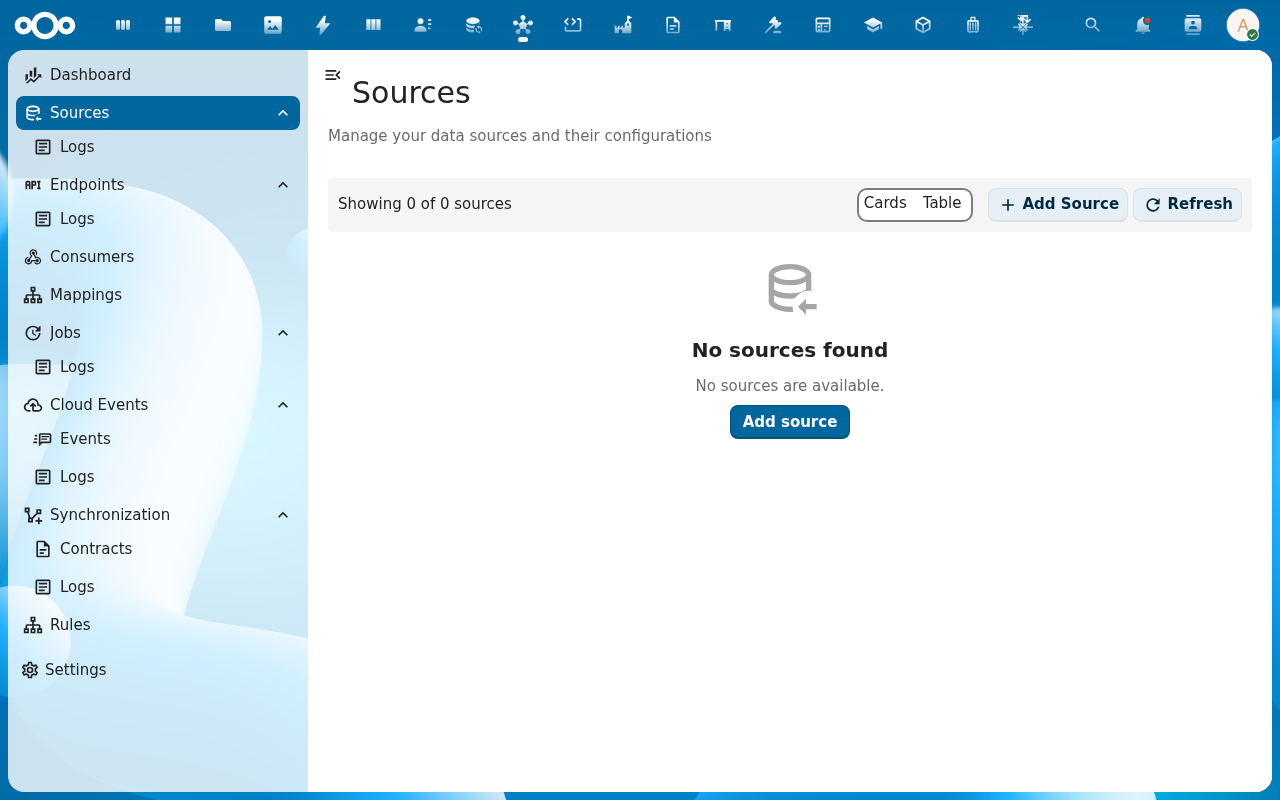
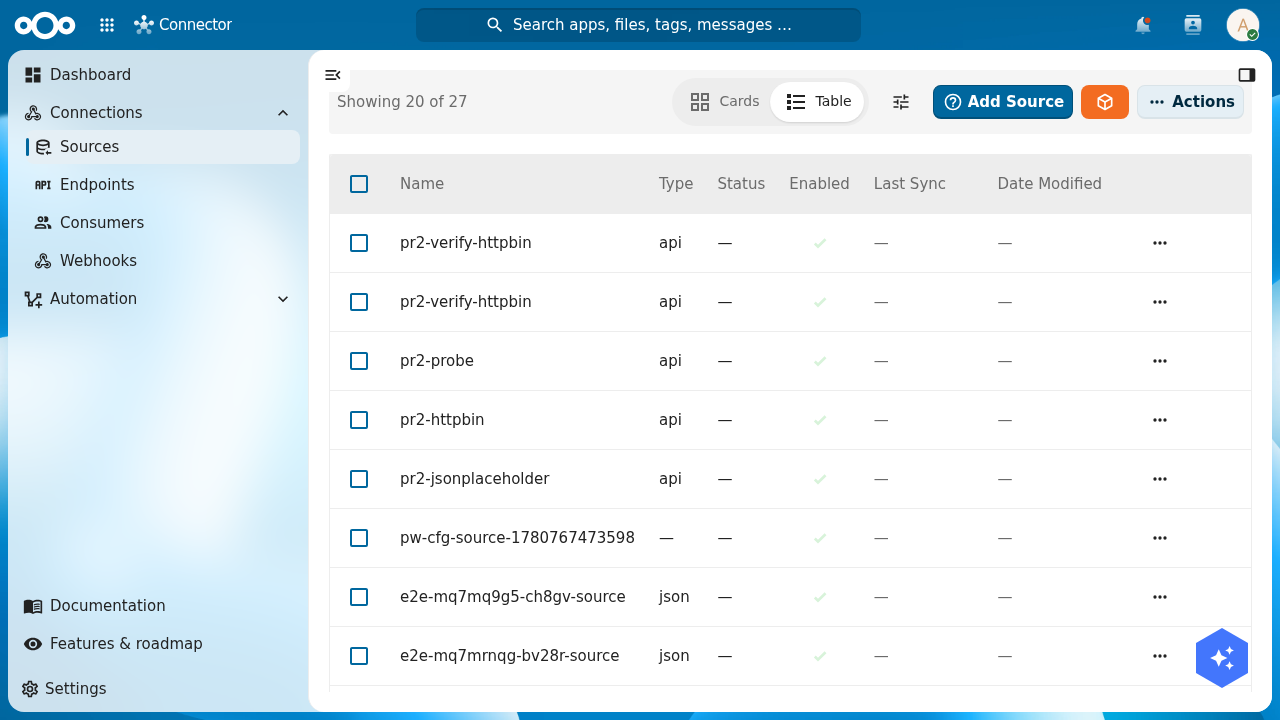
docs(sources): document app-side credential injection + refresh add-source walkthrough
Adds documentation for the app-side injection path shipped in openconnector#168 /
openregister#404 (credentialRef placeholders for arbitrary / self-hosted hosts):

- features/sources.md: new 'App-side injection' subsection under Authentication —
  the generic-* inject-only providers, the nested {credentialRef} placeholder shape,
  a proxy-vs-inject comparison table, hard rules, and an operator recipe.
- tutorials/user/02-add-source.md: the 'setup a test connection' walkthrough now wires
  auth to a vault credential (never an embedded secret) and calls out the plaintext
  API-key/JWT fields in the generated Create Source dialog as 'leave empty'.
- Replaced the placeholder Sources-list and Create-Source screenshots with real
  captures from the running instance.

Note: the source-detail / test-call / logs screenshots (03-05) still carry their
placeholders — the shared dev instance is stuck in a needsDbUpgrade/503 loop today, so
they need recapture in a stable environment.

diff --git a/docs/tutorials/user/02-add-source.md b/docs/tutorials/user/02-add-source.md
@@ -1,7 +1,7 @@
 ---
 sidebar_position: 2
 title: Add a source
-description: Register an external system (REST, SOAP, FTP) as a Source so OpenConnector can call it.
+description: Register an external system (REST, SOAP, FTP) as a Source, wire its authentication to a vault credential, and confirm the connection with a test call.
 ---
 
 # Add a source
@@ -10,29 +10,62 @@ A **Source** is a configured connection to an external system. Every API call Op
 
 ## Goal
 
-By the end you will have created a Source pointing at an external REST API and confirmed the connection by running a test call.
+By the end you will have created a Source pointing at an external REST API, wired its authentication to a **credential held in the vault** (so no secret is stored in the Source), and confirmed the connection by running a test call.
 
 ## Prerequisites
 
 - You have completed [Open OpenConnector for the first time](./01-first-launch.md).
 - You know the base URL of the external system and one valid endpoint to test against.
-- You have the credentials for whichever authentication method the external system uses (API key, OAuth client, basic auth, …).
+- You have a **vault credential** for the external system, or the rights to create one. The recommended pattern is to **never store the secret in the Source** — keep it in OpenRegister's credential broker and reference it. See [Sources → Authentication](../../features/sources.md#authentication-methods) for the full picture. In short:
+  - For a **catalogued SaaS** (Mollie, KVK, GitHub, …), create a brokered credential for that provider and reference it at the top level — the call is proxied and the secret never enters OpenConnector.
+  - For an **arbitrary or self-hosted host**, create a credential with a `generic-*` (inject-only) provider — the secret is resolved from the vault and injected app-side.
+
+  In both cases: note the credential's **UUID** and add `openconnector` to its **allowedApps**.
 
 ## Steps
 
-1. From the navigation, click **Sources** and then **Add Source**.
+1. From the navigation, open **Connections → Sources**, then click **Add Source**.
 
    ![Sources list with Add Source button](/screenshots/tutorials/user/02-add-source-01.png)
 
-2. Fill in the basics in the *Add Source* dialog: a clear **Name** (it appears in dropdowns when you build mappings and syncs), the **Location** (base URL), and the **Type** (`json` for most REST APIs, `xml` / `soap` / `ftp` for the other source kinds).
+2. Fill in the basics in the *Create Source* dialog: a clear **Name** (it appears in dropdowns when you build mappings and syncs) and the **Type** (`api` for most REST APIs, `xml` / `soap` / `ftp` for the other source kinds). You set the **Location** (base URL) on the detail page after saving.
 
-   ![Add Source dialog](/screenshots/tutorials/user/02-add-source-02.png)
+   The dialog also exposes plaintext **API Key**, **Password**, **Client Secret** and **JWT Token** fields (marked *"plaintext per ADR-007"*). **Leave these empty** for a secure setup — you will reference the vault credential in the next step instead of embedding a secret here.
 
-3. Save. The Source appears in the list. Click its row to open the detail view, then move to the **Configuration** tab to add headers, authentication and connection defaults.
+   ![Create Source dialog](/screenshots/tutorials/user/02-add-source-02.png)
 
-   ![Source detail view](/screenshots/tutorials/user/02-add-source-03.png)
+3. Save. The Source appears in the list. Open its detail view and go to the **Configuration** tab to set the **Location** (base URL) and the authentication. Point `authentication` at your credential instead of an embedded secret.
 
-4. Open the **Test** action on the source's detail page. Enter a known-good path (e.g. `/health` or any read-only `GET`) and run the call. The right-hand panel shows the response code, headers and body — confirming the source is reachable.
+   For an **arbitrary / self-hosted host**, place the credential reference at the secret's own position and let a header template read it back:
+
+   ```json
+   {
+     "location": "https://api.example.org",
+     "configuration": {
+       "authentication": {
+         "type": "apikey",
+         "apikey": { "credentialRef": { "credentialId": "<your-credential-uuid>" } }
+       },
+       "headers": {
+         "Authorization": "Bearer {{ source.configuration.authentication.apikey }}"
+       }
+     }
+   }
+   ```
+
+   For a **catalogued SaaS**, reference the credential at the top level of `authentication` instead — the whole call is proxied through the broker:
+
+   ```json
+   {
+     "configuration": {
+       "authentication": { "credentialRef": { "credentialId": "<your-credential-uuid>" } }
+     }
+   }
+   ```
+
+   ![Source detail view with credentialRef configuration](/screenshots/tutorials/user/02-add-source-03.png)
+
+4. Open the **Test** action on the source's detail page. Enter a known-good path (e.g. `/health` or any read-only `GET`) and run the call. The right-hand panel shows the response code, headers and body — confirming the source is reachable **and** that the vault credential was resolved and injected (a 2xx upstream status). The secret itself never appears in the Source, the logs, or the response metadata.
 
    ![Source test call](/screenshots/tutorials/user/02-add-source-04.png)
 
@@ -42,17 +75,19 @@ By the end you will have created a Source pointing at an external REST API and c
 
 ## Verification
 
-You are done when: the source appears in the **Sources** list, a test call against a known-good endpoint returns a 2xx response, and that call shows up in the **Source Logs** with the same status code.
+You are done when: the source appears in the **Sources** list, its `authentication` holds only a `credentialRef` (no embedded secret), a test call against a known-good endpoint returns a 2xx response, and that call shows up in the **Source Logs** with the same status code.
 
 ## Common issues
 
 | Symptom | Fix |
 |---|---|
-| Test call returns `401 Unauthorized` | Authentication header or OAuth token is wrong — check **Configuration → Authentication** on the source. |
+| Test call returns `401 Unauthorized` | The credential resolved but the target rejected it — check the credential's secret value, and that the header template / scheme matches what the external system expects. |
+| Test call returns a `409` config-error log | The `credentialRef` could not be resolved — the credential doesn't exist, `openconnector` is not in its **allowedApps**, or (for app-side injection) it does not use a `generic-*` inject-only provider. See [App-side injection](../../features/sources.md#app-side-injection). |
+| Test call returns a `403` log | The broker refused the credential — confirm the acting user owns it and `openconnector` is in its **allowedApps**. |
 | Test call hangs and times out | The Nextcloud instance can't reach the source's host — check firewall / VPN / DNS from the server, not from your laptop. |
 | Test call returns `200` but the response body is empty | The source returned no payload for that path — try a different endpoint or check if the source wraps responses in an envelope you need to unwrap with `resultsPosition`. |
 
 ## Reference
 
 - [Sources feature](../../features/sources.md) — full reference: types, auth methods, headers, query defaults.
-- [Authentication patterns](../../features/sources.md#authentication-methods) — API key, OAuth 2.0, basic auth.
+- [Brokered credentials & app-side injection](../../features/sources.md#authentication-methods) — reference a vault credential instead of embedding a secret; when to proxy vs inject.

diff --git a/docs/features/sources.md b/docs/features/sources.md
@@ -72,6 +72,64 @@ The **un-migrated-secret** case is subtle: OpenRegister's lazy vault→Doriath s
 
 **Secret hygiene & trust boundary:** the secret value never appears in source configuration, sync logs, CallLogs, or error messages — with brokering it never enters the OpenConnector process at all. The OpenRegister broker is the trust boundary: it resolves and injects the secret server-side and returns only `{status, headers, body}`. Its **refusal reason is logged inside OpenRegister and never crosses the boundary** — the exception OpenConnector catches is a single opaque "Request not permitted", which is why the 403 guidance covers the likely fixes for its context rather than naming the exact guard. OpenConnector's own owner-pin refusals are logged with the **guard name + owner uid + credential id only** — never any secret material.
 
+### App-side injection (`credentialRef` placeholder) — for arbitrary / self-hosted hosts {#app-side-injection}
+
+The brokered proxy above is **host-locked**: it only works for a provider in OpenRegister's immutable catalogue (Mollie, KVK, GitHub, …), whose `baseUrl` pins where every call may go. That is deliberately the strongest option — the secret is *zero-knowledge* (it never enters the OpenConnector process). But it cannot cover a Source that points at an **arbitrary or self-hosted host** — a municipality's own API, an on-prem ZGW registry, a customer's staging server — because those hosts can't be host-locked from a file shipped with OpenRegister.
+
+App-side injection closes that gap **without storing the secret in the Source schema**. Instead of the whole call being proxied, **any leaf value under `configuration.authentication` may be a placeholder** of the shape `{ "credentialRef": { … } }`. At call time OpenConnector resolves each placeholder from the vault (through the broker) and substitutes the plaintext **in place**, so every normal auth mechanism — API-key header, HTTP Basic, OAuth token exchange, JWT signing — runs unchanged against a hydrated config.
+
+The vault credential must use one of OpenRegister's **generic, inject-only providers** (they carry no `baseUrl` and no allow-rules, so they can *only* be injected app-side — never proxied):
+
+| Provider | Secret it holds | Non-secret scaffolding you keep in the Source |
+|---|---|---|
+| `generic-apikey` | the bare API key | the header name / template |
+| `generic-bearer` | the bearer token | — |
+| `generic-basic` | the **password** | the `username` (not sensitive) |
+| `generic-oauth2` | the OAuth2 `client_secret` | `client_id`, token URL, scope |
+| `generic-jwt` | the JWT signing secret | claims, algorithm |
+
+Example — an API key injected into a header, with the key held in the vault:
+
+```json
+{
+  "authentication": {
+    "type": "apikey",
+    "apikey": { "credentialRef": { "credentialId": "00000000-0000-0000-0000-000000000000" } }
+  },
+  "headers": {
+    "Authorization": "Bearer {{ source.configuration.authentication.apikey }}"
+  }
+}
+```
+
+At call time `authentication.apikey` becomes the vault secret, so the `Authorization` header renders with the real key. Only the **secret leaf** is a placeholder; the non-secret scaffolding (`type`, `client_id`, `username`, `tokenUrl`, header name, …) stays in the config as plain values.
+
+**How it differs from the proxy (top-level `credentialRef`):**
+
+| | Brokered proxy | App-side injection |
+|---|---|---|
+| Config shape | `authentication.credentialRef` (the **whole** auth block) | a `credentialRef` **nested** at a secret's own position |
+| Provider | host-locked catalogue entry (Mollie, KVK, …) | a `generic-*` inject-only provider |
+| Where the call goes | provider `baseUrl` (host-locked) | the Source's own `location` |
+| Secret exposure | zero-knowledge — never enters OpenConnector | resolved into the OpenConnector process, then injected |
+| Broker guards | owner → allowedApps → allow-rules → host-lock | owner → allowedApps (no host-lock — there is no fixed host) |
+| Use it for | catalogued SaaS | arbitrary / self-hosted hosts |
+
+**Hard rules (each a synthetic 409 config-error CallLog; the request is never sent):**
+
+- The referenced credential **must** use a `generic-*` inject-only provider. Referencing a host-locked *proxy* credential in a placeholder is refused — its secret is zero-knowledge and never leaves OpenRegister (use a top-level `credentialRef` proxy for those instead).
+- Requires an OpenRegister version that ships `CredentialBrokerService::resolveInjectable()`; an older broker fails closed with an upgrade hint.
+- The broker still enforces credential **owner** and **allowedApps** (add `openconnector` to `allowedApps`). Background jobs use the same owner-pinning policy as the proxy path.
+
+**Operator recipe:**
+
+1. Create a credential in OpenRegister's credential broker with a **`generic-*`** provider matching your auth scheme (e.g. `generic-apikey`), the secret, and `owner`. Note its UUID.
+2. Add `openconnector` to the credential's `allowedApps`.
+3. In the Source's `configuration.authentication`, replace the secret value with a `{ "credentialRef": { "credentialId": "<uuid>" } }` placeholder, keeping the non-secret scaffolding around it.
+4. Test the source: a 2xx/upstream status means injection worked; a 409 CallLog names the config problem (wrong provider kind, missing credential, broker too old).
+
+Because the injected secret ends up exactly where an embedded one would, the same CallLog redaction covers it — the win is that the **Source schema stores only a reference**, never the secret.
+
 ### API Key
 
 Set a static value directly in the `headers` or `query` fields of the source:
